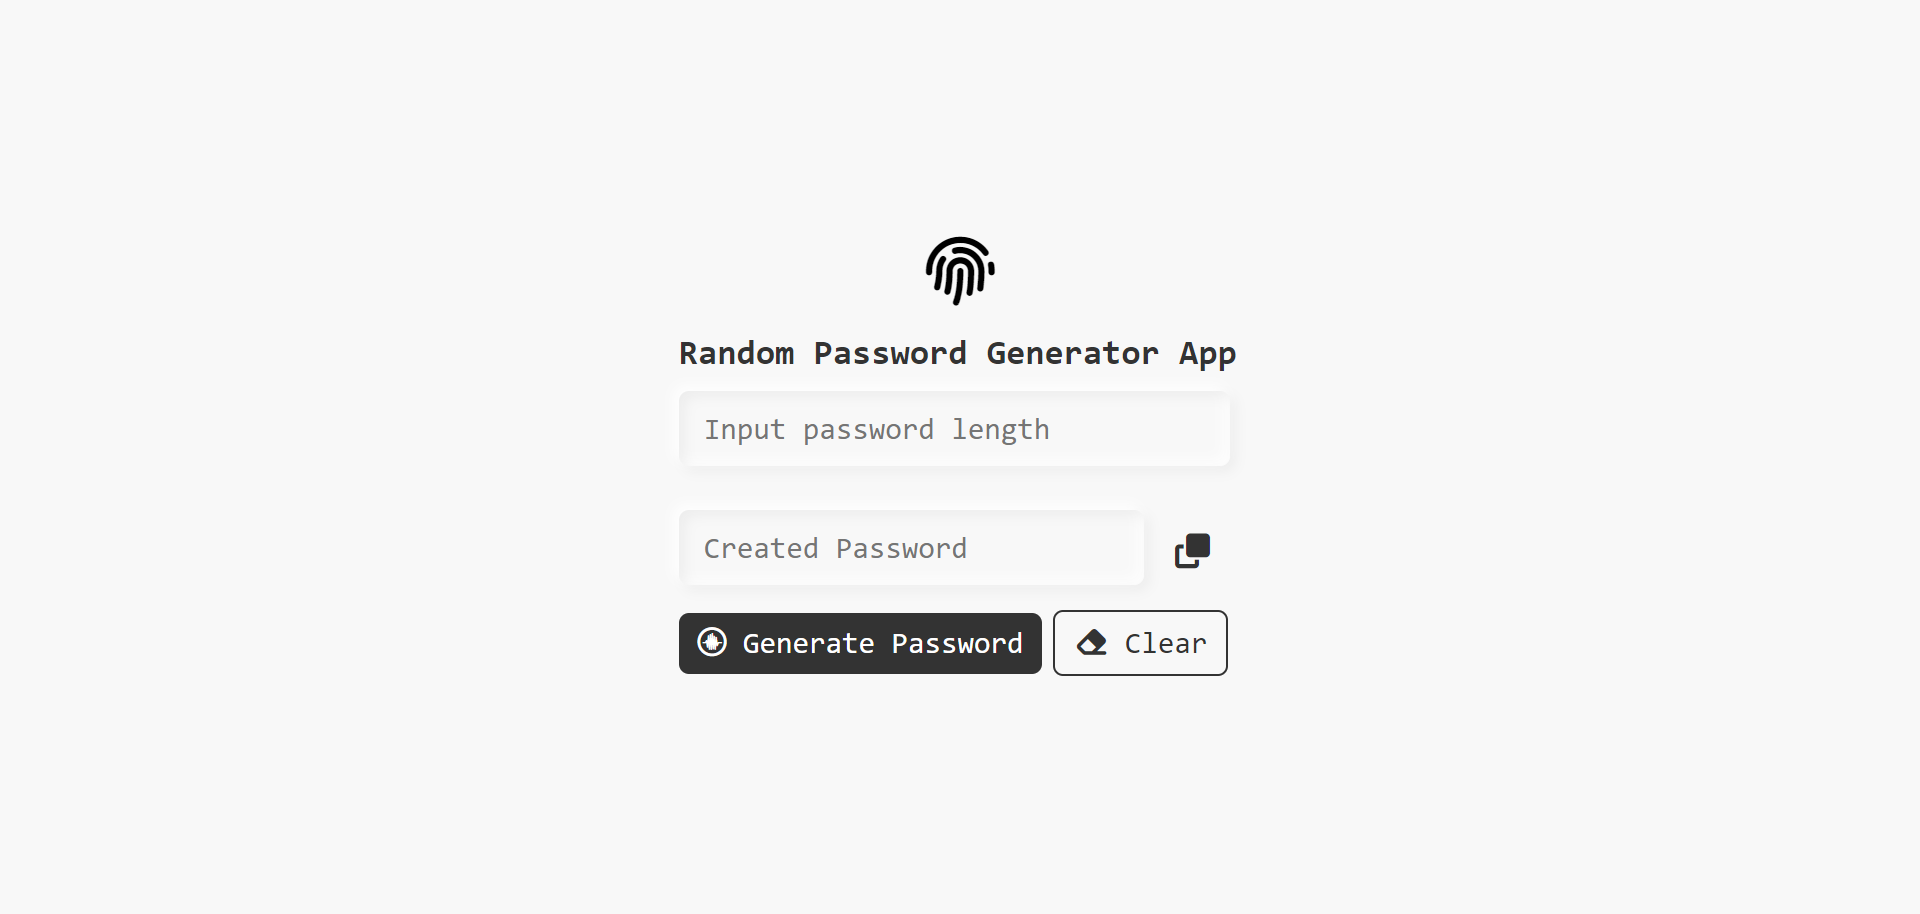
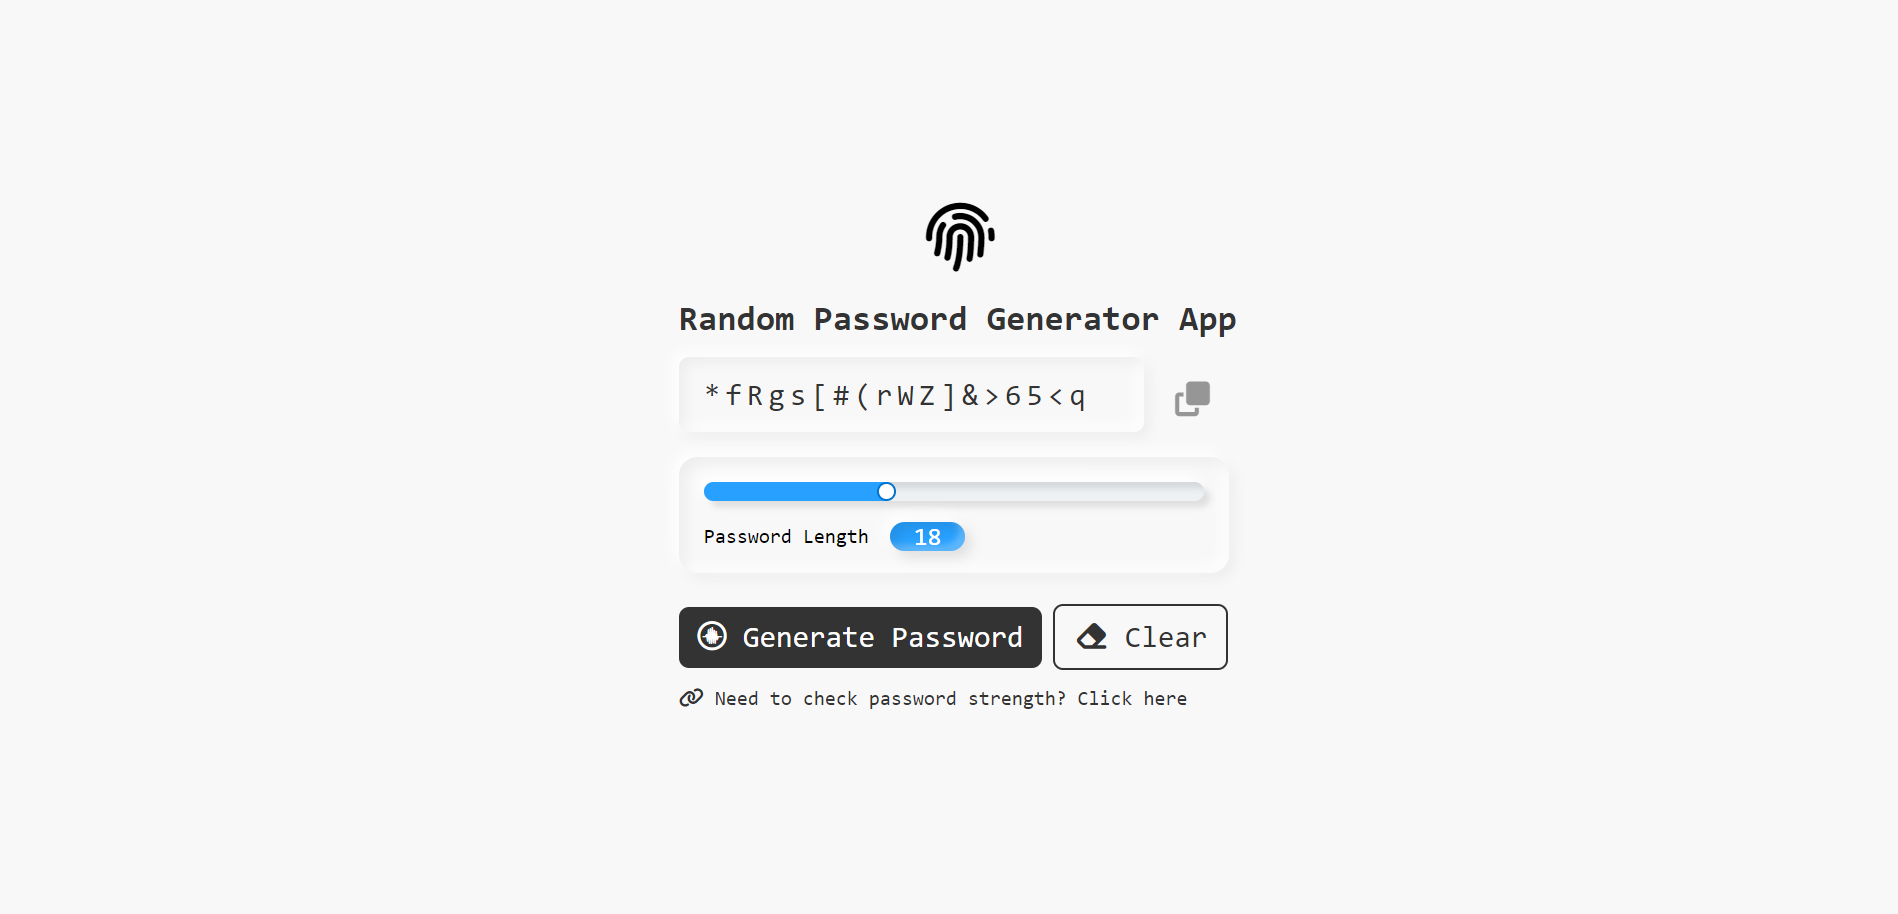
update readme file

diff --git a/index.html b/index.html
@@ -30,7 +30,7 @@
         </div>
         <div id="btn" onclick="getPassword()"><i class="fa-brands fa-creative-commons-sampling"></i> Generate Password</div>
         <div id="clear_btn" onclick="clearPassword()"><i class="fa-solid fa-eraser"></i> Clear</div>
-        <a href="#" class="link"><i class="fa-solid fa-link"></i> Need to check password strength? Click here</a>
+        <a href="https://password-strength-checker-app.netlify.app/" class="link"><i class="fa-solid fa-link"></i> Need to check password strength? Click here</a>
     </div>
 
     <footer>Developed by <a href="https://rirefat.netlify.app/">Rafiul Islam Refat</a></footer>

diff --git a/README.md b/README.md
@@ -1,1 +1,12 @@
-# password-generator-web-app
+# Password Generator Web Application
+This is a simple Password Generator Web Application.  <br> 
+Live Preview: [https://password-generator-web-app.netlify.app/](https://password-generator-web-app.netlify.app/) 
+
+
+![Password Generator Web Application Preview](./preview_Password-Generator-Web-App.png "Password Generator Web Application")
+
+## Get in touch:
+- Fiverr: [https://www.fiverr.com/rafiul_refat](https://www.fiverr.com/rafiul_refat) 
+- Upwork: [https://www.upwork.com/freelancers/~0142a4c4d9d621a489](https://www.upwork.com/freelancers/~0142a4c4d9d621a489) 
+- Portfolio: [https://rirefat.netlify.app/](https://rirefat.netlify.app/) 
+- Email: <a href="mailto:rirefat.official@gmail.com">rirefat.official@gmail.com</a>
